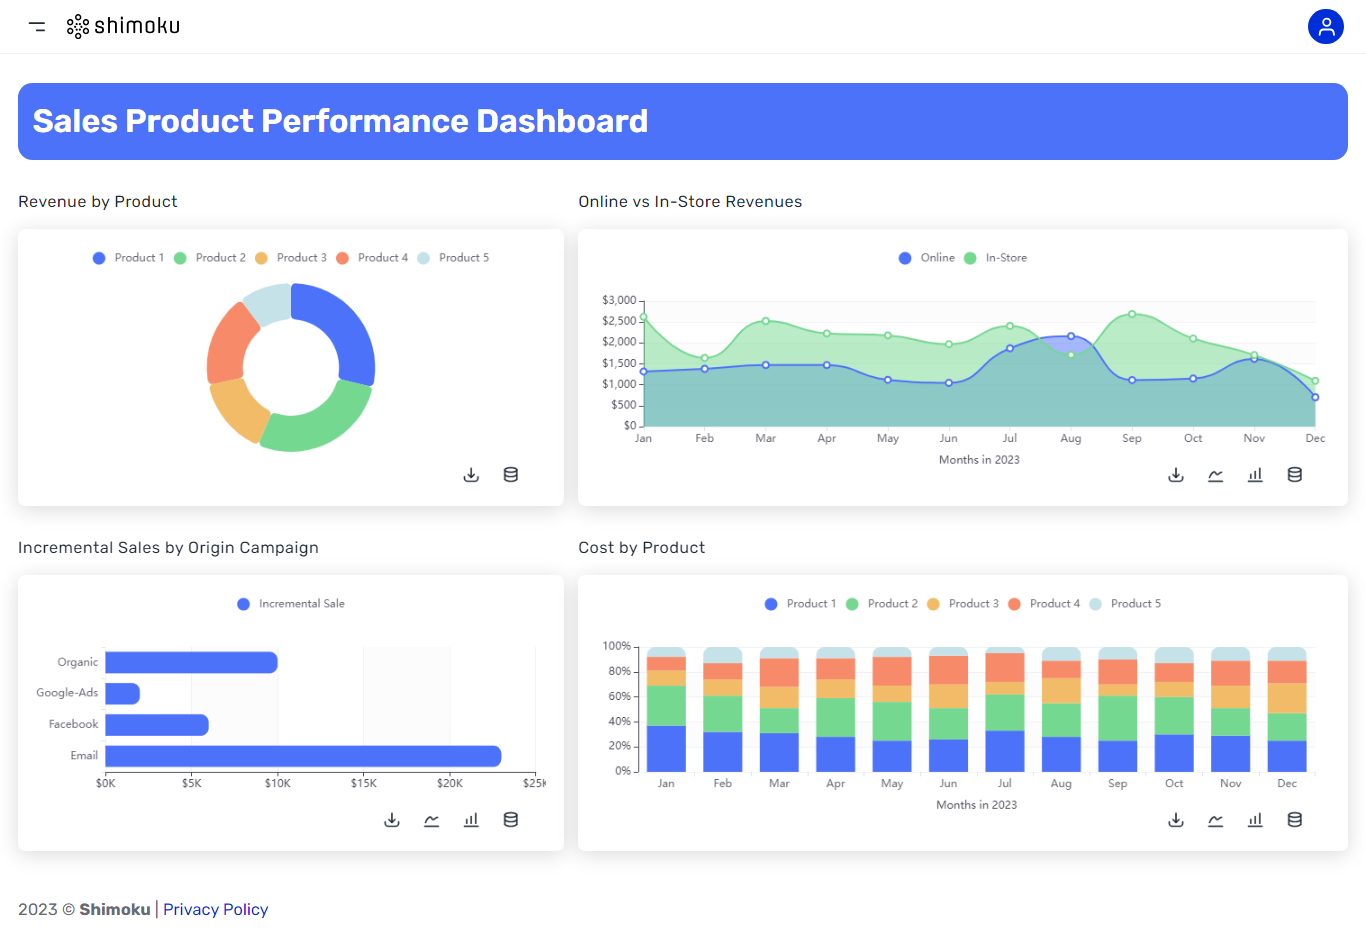
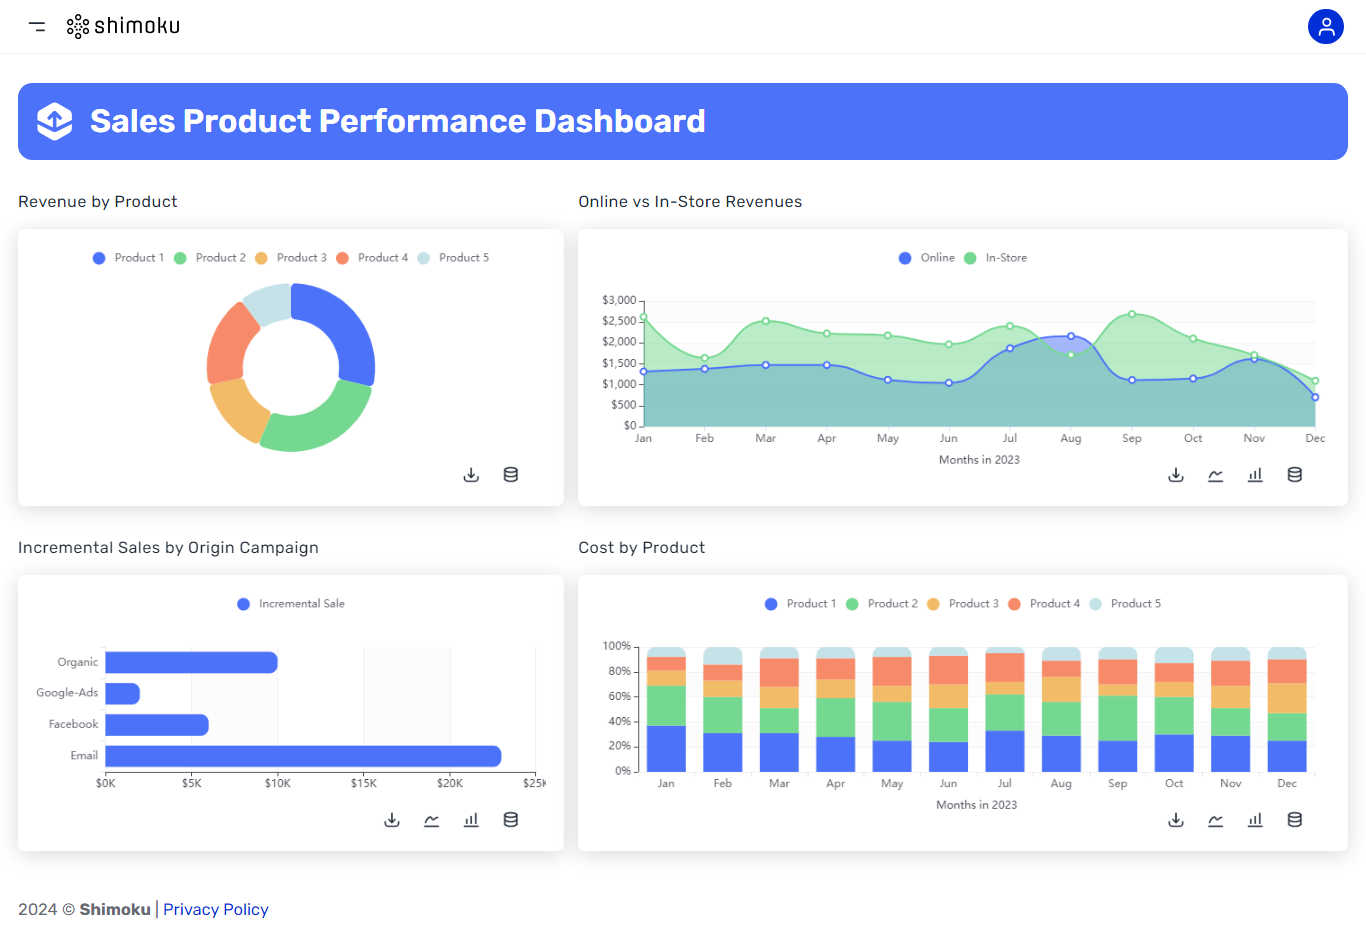
Add changes: update capture, change header plot and add share link to board

Changed region(s): [[0.0307, 0.0926, 0.5227, 0.1543], [0.123, 0.9564, 0.1537, 0.9872]]

diff --git a/templates/sales_product_performance/paths/overview.py b/templates/sales_product_performance/paths/overview.py
@@ -1,6 +1,7 @@
 from board import Board
 import pandas as pd
 from io import StringIO
+from utils import beautiful_indicator
 
 
 class Overview(Board):
@@ -39,6 +40,7 @@ class Overview(Board):
         self.plot_incremental_sales_by_origin_campaign()
         self.plot_cost_by_product()
 
+
     def plot_header(self):
         """
         Plots the header section.
@@ -49,33 +51,18 @@ class Overview(Board):
 
         title = "Sales Product Performance Dashboard"
 
-        header_html = """
-            <head>
-                <style>
-                    .component-title{{
-                        height:auto; width:100%;
-                        border-radius:16px; padding:16px;
-                        display:flex; align-items:center;
-                        background-color:var(--chart-C1); color:var(--color-white);
-                    }}
-                </style>
-            </head>  
-            <div class='component-title'>
-                <div class='text-block'>
-                    <h1>{}</h1>
-                </div>
-            </div>
-        """.format(
-            title
-        )
-
+        indicator = beautiful_indicator(title=title)
         self.shimoku.plt.html(
-            order=self.order, rows_size=1, cols_size=12, html=header_html
+            indicator,
+            order=self.order,
+            rows_size=1,
+            cols_size=12
         )
 
         self.order += 1
 
         return True
+
 
     def plot_revenue_by_product(self):
         """

diff --git a/templates/sales_product_performance/utils.py b/templates/sales_product_performance/utils.py
@@ -26,6 +26,46 @@ def get_data(file_names: List[str]):
 
     return dict_dfs
 
+def beautiful_indicator(title: str):
+    """
+    Create a header with HTML
+
+    Parameters:
+    title (str): Title of the dashboard
+
+    Returns:
+    Literal string with the HTML to plot the header section.
+    """
+
+    return (
+        "<head>"
+        "<style>"  # Styles title
+        ".component-title{height:auto; width:100%; "
+        "border-radius:16px; padding:16px;"
+        "display:flex; align-items:center;"
+        "background-color:var(--chart-C1); color:var(--color-white);}"
+        "</style>"
+        # Start icons style
+        "<style>.big-icon-banner"
+        "{width:48px; height: 48px; display: flex;"
+        "margin-right: 16px;"
+        "justify-content: center;"
+        "align-items: center;"
+        "background-size: contain;"
+        "background-position: center;"
+        "background-repeat: no-repeat;"
+        "background-image: url('https://uploads-ssl.webflow.com/619f9fe98661d321dc3beec7/63594ccf3f311a98d72faff7_suite-customer-b.svg');}"
+        "</style>"
+        # End icons style
+        "<style>.base-white{color:var(--color-white);}</style>"
+        "</head>"  # Styles subtitle
+        "<div class='component-title'>"
+        "<div class='big-icon-banner'></div>"
+        "<div class='text-block'>"
+        "<h1>" + title + "</h1>"
+        "</div>"
+    )
+
 
 def groupby_sum(df: pd.DataFrame, groupby_col: str, sum_col: str):
     """

diff --git a/templates/sales_product_performance/board.py b/templates/sales_product_performance/board.py
@@ -23,12 +23,14 @@ class Board:
         """
 
         file_names = ["data/sales_product_performance.csv"]
-        self.board_name = "Sales Product Performance"  # Name of the dashboard
+        # Name of the dashboard
+        self.board_name = "Sales Product Performance"  
         self.dfs = get_data(file_names)
 
-        self.shimoku = shimoku  # Shimoku client instance
+        # Shimoku client instance
+        self.shimoku = shimoku  
         self.shimoku.set_board(name=self.board_name)
-        self.shimoku.boards.update_board(name=self.board_name)
+        self.shimoku.boards.update_board(name=self.board_name, is_public=True)
 
     def transform(self):
         """
